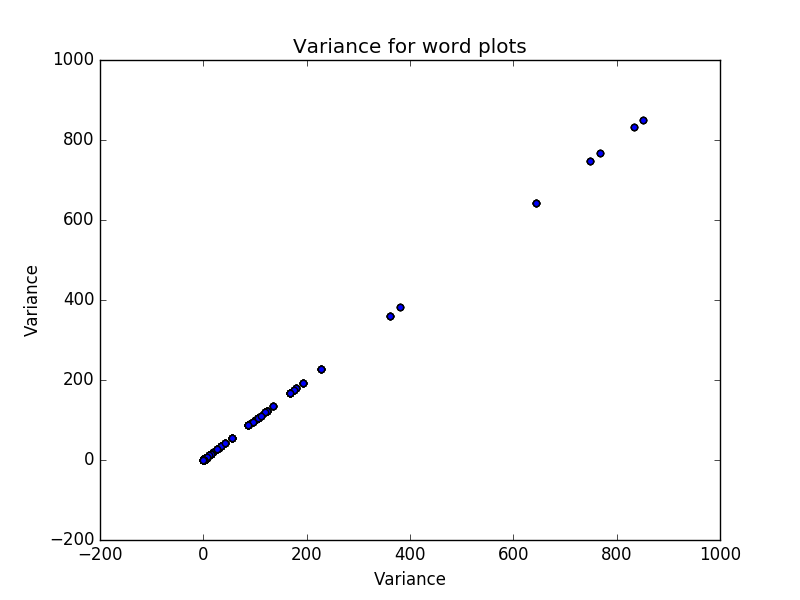
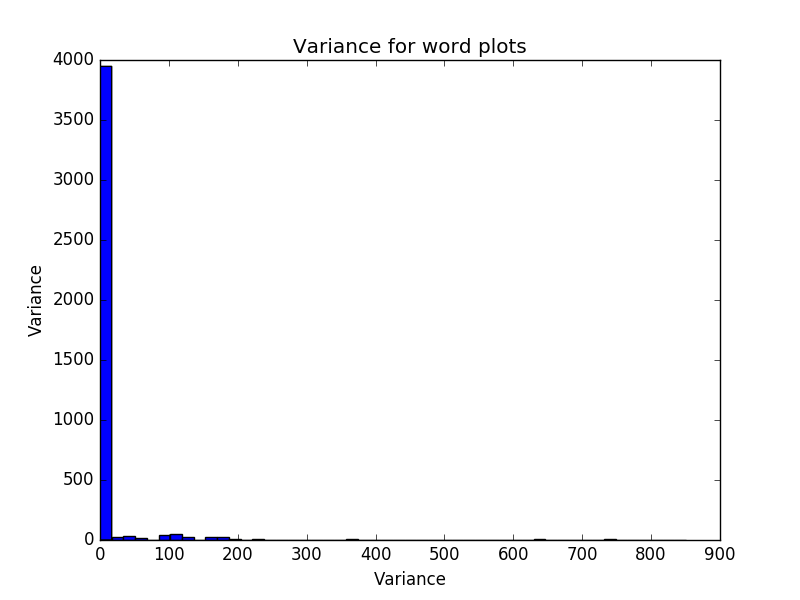
update plots

diff --git a/karan/tfidf.py b/karan/tfidf.py
@@ -31,7 +31,7 @@ plt.title("Sorted TF-IDF values for different words")
 plt.savefig("TF-IDF")
 
 plt.figure()
-plt.scatter(varianceData, varianceData)
+plt.hist(varianceData, 50)
 plt.xlabel("Variance")
 plt.ylabel("Variance")
 plt.title("Variance for word plots")
